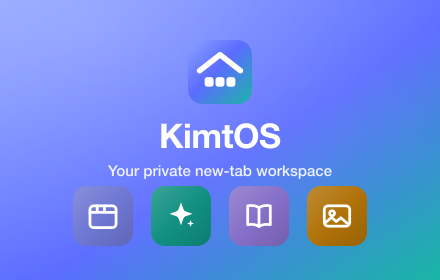
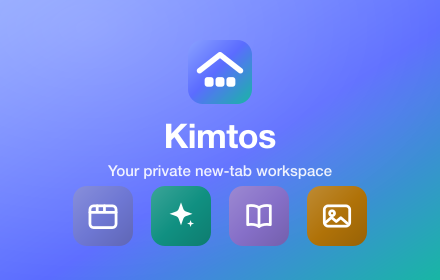
docs(store): refresh listing assets and copy, add privacy policy

Changed region(s): [[0.3545, 0.4286, 0.65, 0.5429]]

diff --git a/docs/extension/chrome-web-store.md b/docs/extension/chrome-web-store.md
@@ -74,10 +74,9 @@ after it passes. Nothing in this repo can shorten that.
   hard limit at upload time and is enforced in CI
   (`scripts/check-manifest-summary.mjs`).
 - **Category:** Productivity.
-- **Privacy policy URL:** the `/privacy` page of wherever the static `www` site is hosted (any
-  static host, for example GitHub Pages) — **required**, because the extension handles user
-  data. The page exists (`www/pages/privacy.vue`); it is not a placeholder. Where `www` is
-  hosted is the owner's call and is not recorded in this repository.
+- **Privacy policy URL:** `https://github.com/MoonLandingLabs/kimtos-core/blob/main/PRIVACY.md`
+  (the repository's `PRIVACY.md`) — **required** by the store. It is the same policy as the site's
+  `/privacy` page (`www/pages/privacy.vue`); keep the two in step.
 - **Website and support URLs:** set the website to the public repository
   (`https://github.com/MoonLandingLabs/kimtos-core`) and the support URL to its issue tracker
   (`https://github.com/MoonLandingLabs/kimtos-core/issues`). GitHub issues are the only contact
@@ -100,40 +99,42 @@ Plain text only; the store renders no markup.
 
 ```text
 Kimtos turns every new tab into a private workspace. Notes, tasks, PDFs, files and
-on-device AI — it all runs in your browser and stays there. Nothing you create is
-uploaded. No analytics, no tracking, no ads.
+on-device AI run in your browser and stay there. Nothing you create is uploaded. There
+is no account, no analytics, no tracking and no ads.
 
-100% FREE AND OPEN SOURCE (MIT) — NO ACCOUNT, NO SERVERS
-Every app is free. There is no account and no sign-in: nothing leaves your browser.
-The full source code is public on GitHub: https://github.com/MoonLandingLabs/kimtos-core
+FREE AND OPEN SOURCE (MIT)
+Every app is free. There is no sign-in, no plan and no payment, and no Kimtos server
+exists. The full source code is public: https://github.com/MoonLandingLabs/kimtos-core
 
-- Notes: Notion-style notes in collections, with live preview, export and internal links
+INCLUDED APPS
+- Notes: notes in collections, with live Markdown preview, export and internal links
 - Tasks: a fresh to-do list every day, with overdue roll-over
-- PDF Library: read and annotate PDFs — highlights, notes, last-page memory
+- PDF Library: read and annotate PDFs, with highlights, notes and last-page memory
 - Tabs: fuzzy-find any open tab, hibernate idle ones to free memory, save sessions
-- KimtFS: a private home file system — folders, files, uploads, all stored locally
-- DevTools: JSON, Base64, JWT, hashing, regex — a toolbox that never phones home
+- KimtFS: a private file system with folders, files and uploads, stored locally
+- DevTools: JSON, Base64, JWT, hashing and regex, entirely offline
 - Calculator: quick and keyboard-driven
-- AnubisDB: one console over everything the apps store on your device — browse, back up, clear
+- AnubisDB: one console over everything the apps store on your device: browse, back up, clear
 
-MORE APPS, ADDED FROM THE APP STORE
+MORE APPS, ADDED FROM THE BUILT-IN APP STORE
 - KimtAI: a private AI chat that runs entirely in your tab
-- Voice to Text: transcribe voice notes; the audio never leaves your device
-- Image to Text: pull the text out of any screenshot or photo, entirely on-device
-- Grammit: grammar and spelling underlined as you type — no cloud grammar service
-- Clipboard: everything you copy, saved privately on your device, searchable
+- Voice to Text: transcribe voice notes on your device
+- Image to Text: extract the text from a screenshot or photo, entirely offline
+- Grammit: grammar and spelling checks as you type, with no cloud grammar service
+- Clipboard: everything you copy, saved on your device and searchable
 - NotaBoard: a whiteboard for sketches and diagrams
-- Thoth: a private knowledge base over your notes, PDFs and boards — cited answers, offline
-- Plus Denoise, Rewordit, Retouch and Video Recorder
+- Thoth: a private knowledge base over your notes, PDFs and boards, with cited answers
+- Video Recorder, Voice Studio, Denoise, Rewordit, Retouch and FakeForm
 
-THE AI IS ON-DEVICE
-Models download once and run on your machine (WebAssembly). Your text and audio are
-never sent to a server — the AI works offline.
+ON-DEVICE AI
+AI models are downloaded once, when you choose to install one, from Hugging Face, and then run
+on your machine with WebAssembly. Your text and audio are never sent to a server, and the AI
+works offline after the download.
 
 PRIVATE BY DESIGN
-Everything you create lives in your browser's own storage and is never transmitted.
-There is no account and no Kimtos server: we hold no data about you. Privacy policy: see the
-Privacy policy link on this listing.
+Everything you create lives in your browser's own storage and is never transmitted. Kimtos makes
+no network request except the model downloads you start, and its permissions allow Hugging Face
+and no other host. Privacy policy: see the link on this listing.
 ```
 
 Keep the app names in step with the catalog (`extension/src/apps/*/meta.ts`)

diff --git a/PRIVACY.md b/PRIVACY.md
@@ -1,0 +1,54 @@
+# Privacy policy
+
+_Last updated: 2026-11-25. Applies to the Kimtos browser extension, version 1.0.3 and later._
+
+Kimtos is a free, open-source Chrome extension. It has no accounts, no backend and no servers
+of its own. This policy describes exactly what it does with your data, and the source code in
+this repository is the authoritative record.
+
+## What Kimtos collects
+
+Nothing. Kimtos does not collect, transmit, sell or share any personal data, usage data,
+analytics or telemetry. There are no advertising or tracking identifiers.
+
+## Where your data lives
+
+Everything you create (notes, tasks, PDFs, files, boards, recordings, clipboard history,
+settings) is stored in your own browser, in IndexedDB and `chrome.storage.local`. It never
+leaves your device. Uninstalling the extension or clearing its data removes it.
+
+## Network requests
+
+Kimtos makes no network request except the on-device AI model downloads that you start, from
+Hugging Face (`huggingface.co` and its content-delivery hosts under `hf.co`). Those requests
+fetch public model files. They carry no content you wrote, and Hugging Face can see the usual
+connection details (such as your IP address) that any website sees. The extension's manifest and
+content security policy allow those hosts and no others, and an automated test fails if that
+ever widens. Once a model is downloaded, it runs fully offline.
+
+Links you choose to click (for example Report an issue, Documentation or a rate-and-review link)
+open in a normal browser tab and are governed by the destination site's own policy.
+
+## Permissions
+
+Each permission is requested for one purpose, listed in
+[`docs/extension/chrome-web-store.md`](docs/extension/chrome-web-store.md). In short: local
+storage, the new-tab page, the side panel, context-menu actions, the browser's own favicon
+cache, and, only if you turn on Grammit, Clipboard or FakeForm, permission to run on the pages
+you use them on. Page access is requested at runtime, never at install. It lets the extension
+read those pages. It does not let it send anything anywhere.
+
+## Microphone and camera
+
+The recording and voice apps use your microphone or camera only when you press Record, through
+the browser's standard permission prompt. Audio and video stay on your device.
+
+## Children
+
+Kimtos is a general-purpose tool and collects no data from anyone, including children.
+
+## Changes and contact
+
+Changes to this policy are made in this repository and are visible in its history. Questions
+and reports go to the [issue tracker](https://github.com/MoonLandingLabs/kimtos-core/issues).
+Security problems: see [SECURITY.md](SECURITY.md).
